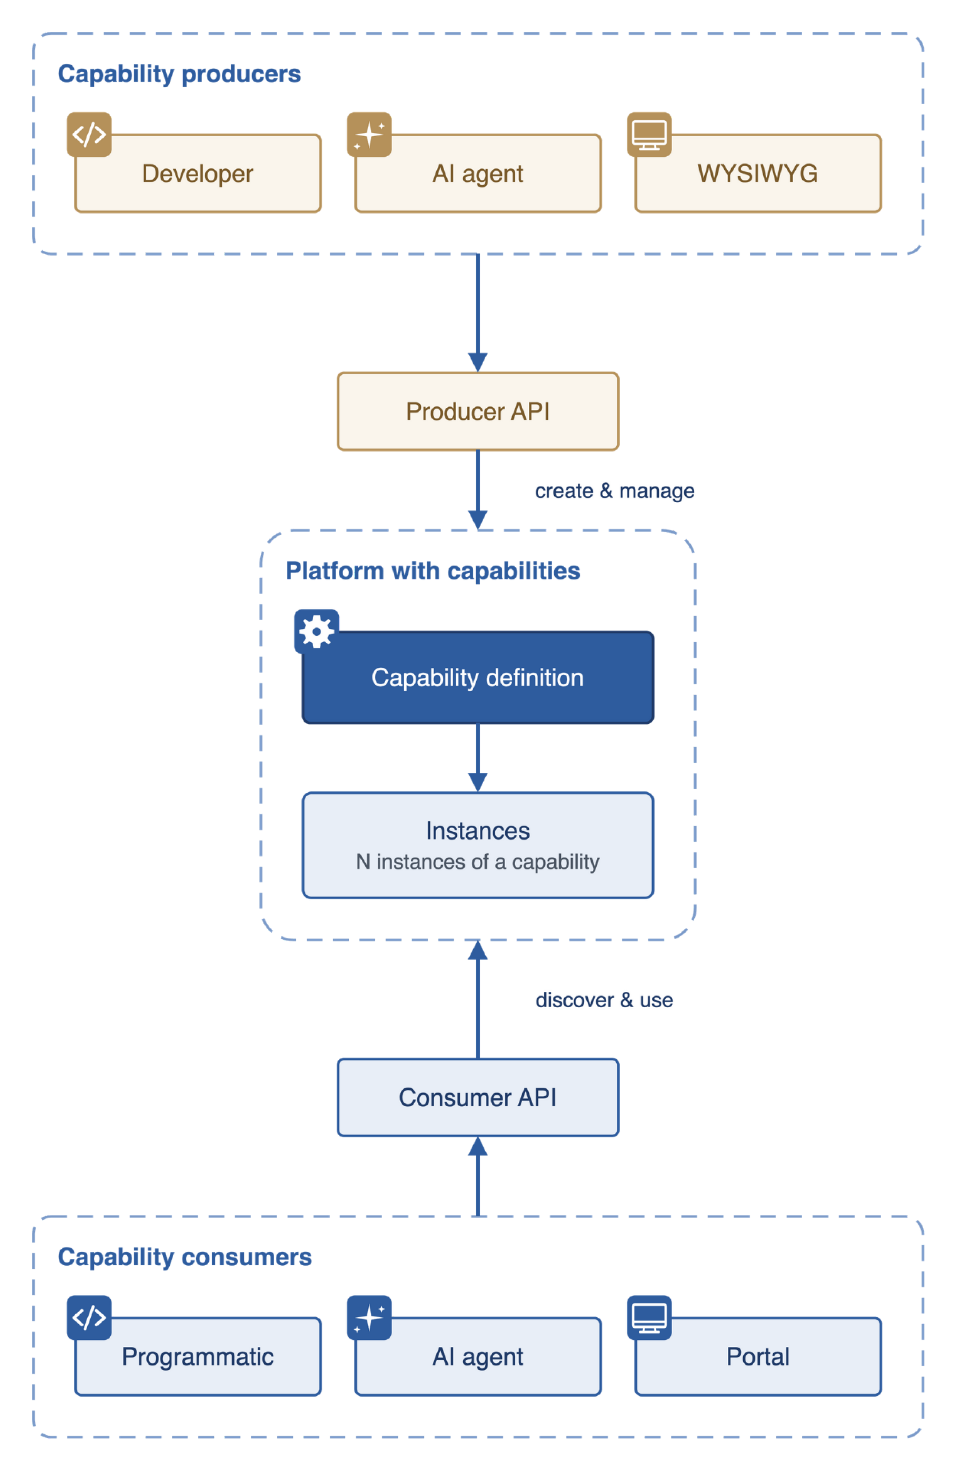
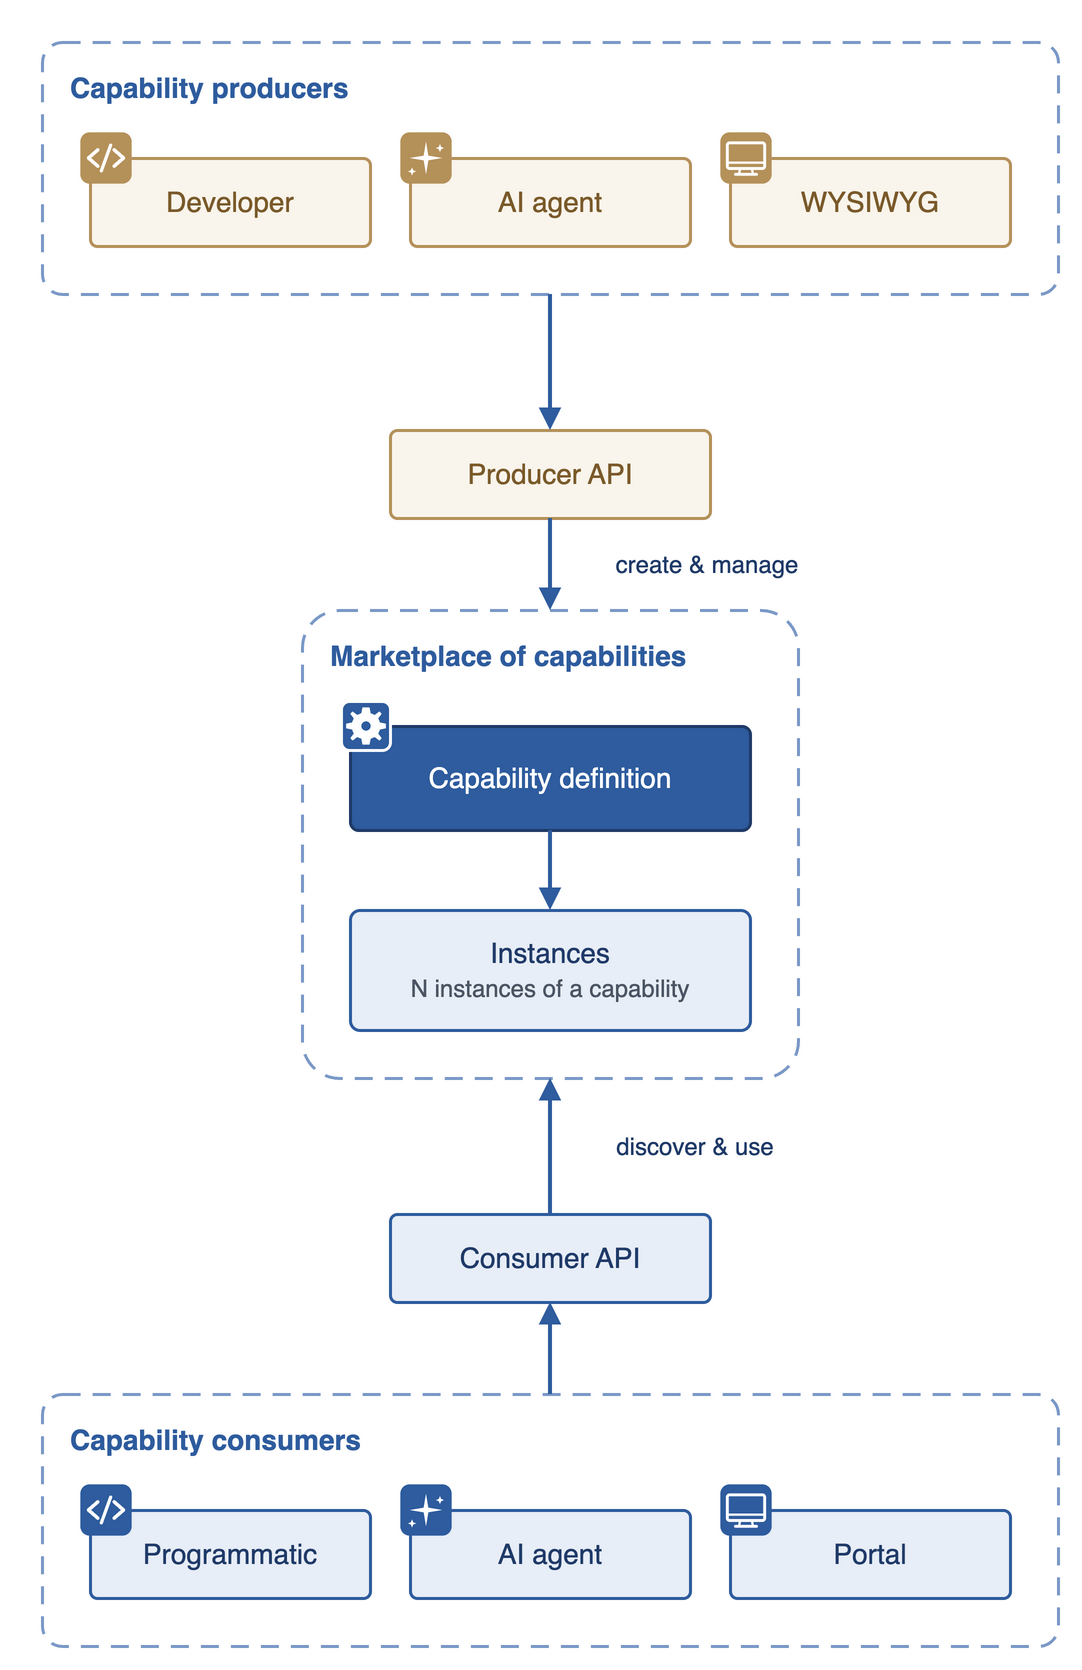
docs: update capability factor figures for marketplace and Safe Reconciliation wording
Addresses the review comments on the figures:

- marketplace-model-composition: "Platform marketplace model" instead of
  "Platform ecosystem model"
- capability-marketplace-flow: middle box is "Marketplace of capabilities"
- capability-factors-overview: split into its parts. The five-factor row
  keeps this name; the three-roles triangle is a new asset,
  marketplace-roles-and-exchanges, placed after the three roles list. The
  platform flow was already on the page.
- safe-reconciliation-matrix: "Fails Safe Reconciliation"

Sources: https://github.com/missBerg/platform-capabilities (diagrams/).

diff --git a/platforms-capability-factors/latest/index.md b/platforms-capability-factors/latest/index.md
@@ -92,6 +92,13 @@ Three main roles emerge in a healthy platform marketplace that maps onto to the 
 - **Platform operators** own and run the core platform infrastructure through which capabilities are discovered, composed, and governed, and they build the guardrails that make the conformant path the easy path.
 
 <figure align="center">
+<img src="assets/marketplace-roles-and-exchanges.png" width=550px />
+<br/>
+<figcaption align="center"><em>Capability producers and capability consumers exchange managed outcomes on request; platform operators govern the exchange through the participation contract and offer a self-service catalog.</em></figcaption>
+</figure>
+<br/>
+
+<figure align="center">
 <img src="assets/capability-marketplace-flow.png" width=550px />
 <br/>
 <figcaption align="center"><em>Capability producers create and manage capability definitions through a producer API; capability consumers discover and use instances of those capabilities through a consumer API.</em></figcaption>
@@ -184,7 +191,7 @@ One rule decides what counts as a factor: a property qualifies as a factor when 
 <figure align="center">
 <img src="assets/capability-factors-overview.png" width=550px />
 <br/>
-<figcaption align="center"><em>Capability producers and capability consumers exchange managed outcomes on request; platform operators govern the exchange through the participation contract, made verifiable by the five capability factors.</em></figcaption>
+<figcaption align="center"><em>The five capability factors. Operational Evidence is what makes the other four verifiable.</em></figcaption>
 </figure>
 <br/>
 
